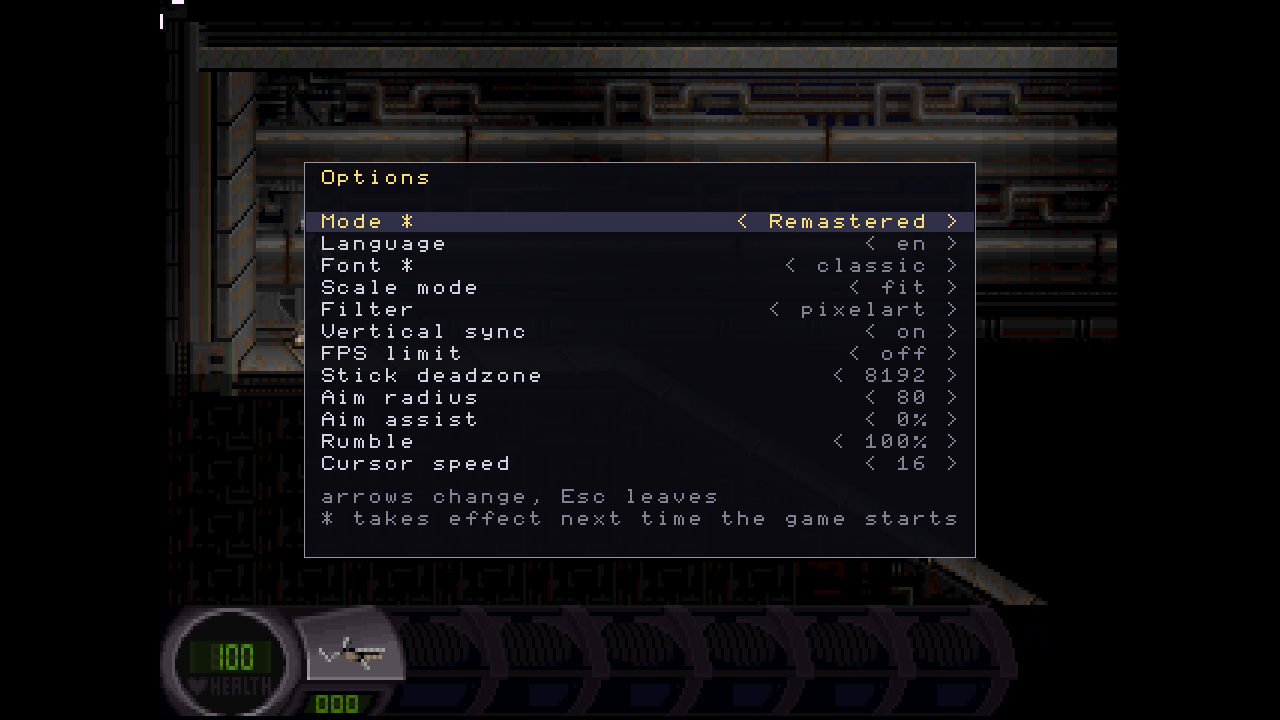
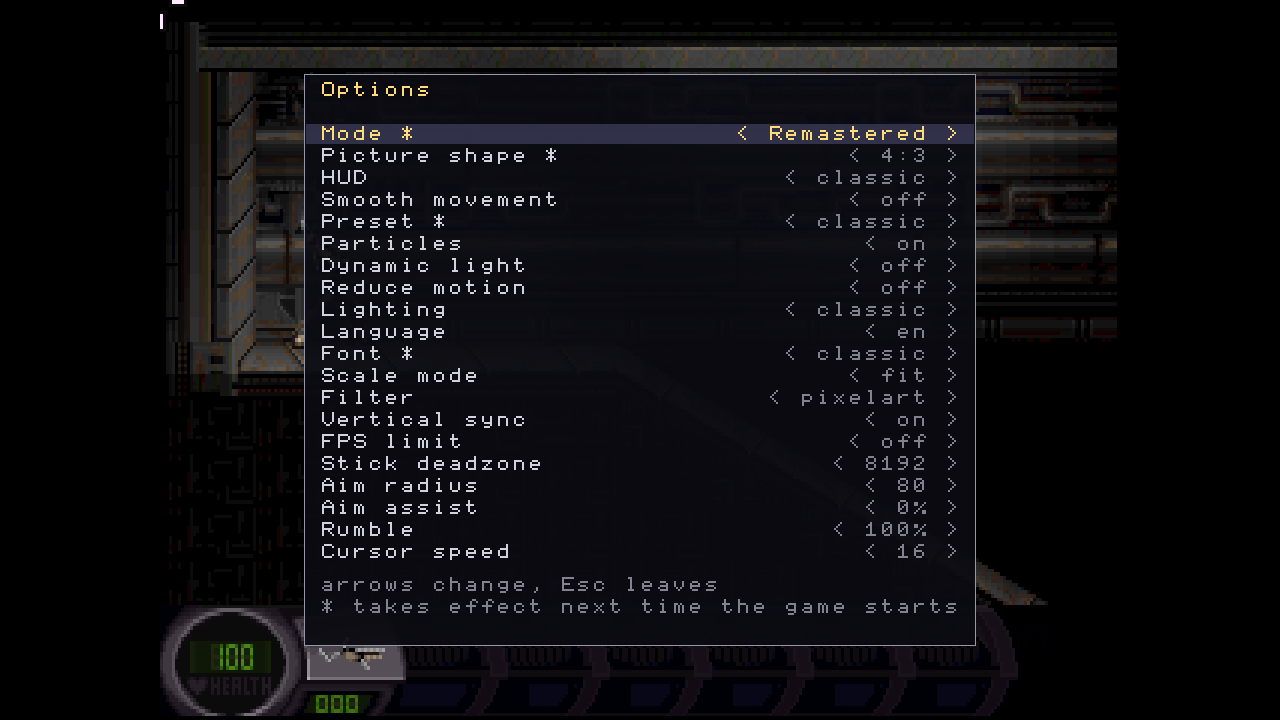
docs(readme): say what the work actually stands at
The status section still said coloured light and GPU post-processing were
open, that packaging waited on a name, and that Windows had never run this
code. All three stopped being true. The feature list gained the GPU path,
the light that shots and explosions cast, and the particles, and the
options screenshot is the current screen rather than the one before the
row was added.

The audio device comment is the other half: SDL3 migrates a logical device
to new hardware by itself, but only for the default one, so opening a
named device would cost that and the game would go quiet whenever someone
plugged in headphones. Written at the call so nobody trades it for a
settings row.

diff --git a/src/sdlport/sound.cpp b/src/sdlport/sound.cpp
@@ -243,6 +243,12 @@ int sound_init( int argc, char **argv )
     audiospec.format = SDL_AUDIO_S16;
     audiospec.channels = 2;
     audiospec.freq = 44100;
+    // The default device and never a named one. SDL3 opens a logical
+    // device on top of the physical one and, for the default, moves it by
+    // itself when the system default changes or headphones are plugged in
+    // (SDL_audio.h, "One other benefit of logical devices"). Asking for a
+    // particular device would buy a settings row and lose that, and the
+    // game would go silent the moment someone plugged anything in.
     mixer = MIX_CreateMixerDevice(SDL_AUDIO_DEVICE_DEFAULT_PLAYBACK, &audiospec);
     if (mixer == NULL)
     {

diff --git a/README.md b/README.md
@@ -66,6 +66,14 @@ classic preset is always there.
   up in a level is a 4:3 region around the player whatever the window does
 - **Optional RGB lighting**, the 1995 curve without the palette snap that
   bands every dark corner, and **CRT scanlines** to go with it
+- **A GPU presentation path** (`renderer=gpu`), which adds Scale2x and a
+  bloom around what is already bright. The classic path stays, and it is
+  what the reference frames are taken through
+- **Light that moves** (`dynlight`): a shot lights the corridor it crosses
+  and an explosion lights the room, each in its own colour, from a table in
+  `data/dynlight.txt`. The 1995 game had this written and commented out for
+  being too slow on the machines of the day
+- **Particles**: sparks off a hit, casings off a shot
 - **Smooth movement** between logical ticks, which is there and is off: the
   art is animated at the tick rate, so the character skates. Kept because the
   camera half of it is worth revisiting
@@ -169,22 +177,31 @@ rather than the repository carrying them.
 
 Done: the SDL3 port, the build and test foundation, the data and licence
 separation, the fixed timestep, gamepad support, the UI layer, the
-translations, the start menu, the new HUD, smooth movement, RGB lighting,
-and the audio mix stage.
+translations, the start menu, the new HUD, smooth movement, widescreen,
+the SDL_GPU presentation path with its filters, scanlines and bloom, RGB
+lighting with light that shots and explosions cast in their own colour, an
+override mechanism for higher resolution art, and the audio mix stage.
+
+Every one of those is optional and off unless asked for. The classic preset
+and the Original mode are compared against reference frames on every run,
+and the replay hashes have to stay identical whatever is switched on: the
+simulation is not allowed to notice any of it.
 
 Open:
 
 - **A free sound set.** The public domain Golgotha pack covers 19 of the 78
   events; the other 59 need a source, and the ones that need a human voice
-  are the hard part. Until then the Remastered mode is silent
-- **Human validation** of everything above: none of it has been played yet,
-  and Windows has never run this code at all
-- GPU post-processing (CRT, bloom), coloured light, an HD pack
-- Widescreen needs a person to look at it: the scan says no level shows an
-  empty edge at 16:9 or 21:9, but that is one position per level
-- Packaging, which waits on a name for the project
-- More replays that do something. One exists now, recorded from a text
-  script, and it is what a person's eyes caught before any test did
+  are the hard part. Until then the Remastered mode borrows the original
+  audio when it is installed, and is otherwise silent
+- **Human validation.** The game has been played on Linux and, once, on
+  Windows 11. What nobody has judged yet by playing: widescreen, the new
+  HUD, a physical gamepad, and how any of the visual additions feel
+- **Art.** The higher resolution pack has the mechanism and no art; a second,
+  more distant background layer for parallax needs tiles that do not exist
+- Packaging. The manifests for Flatpak, the AUR and an AppImage are written
+  and none of them has been built yet
+- More replays that do something. One exists, recorded from a text script,
+  and it is what a person's eyes caught before any test did
 
 Inherited from upstream and still open: dead code removal, and replacing the
 jFILE/bFILE layer with SDL's IO abstraction.
@@ -212,8 +229,10 @@ which is the point of having two. CI adds Ubuntu, Windows and macOS, and the
 replay hashes agree across all of them: the simulation is deterministic
 whatever it is running on.
 
-Windows 11 on that same laptop is the next thing to be checked by hand; so far
-it is only known to build and to pass the tests.
+Windows 11 on that same laptop has been played once, from a stick: first run,
+configuration, the language screen, saving and the window size all behaved.
+Widescreen, the new HUD, the gamepad and the original data are still unchecked
+there.
 
 [AGENTS.md](AGENTS.md) is the contract for anyone working on this, human or
 agent, and [ARCHITECTURE.md](ARCHITECTURE.md) maps the engine, including the
